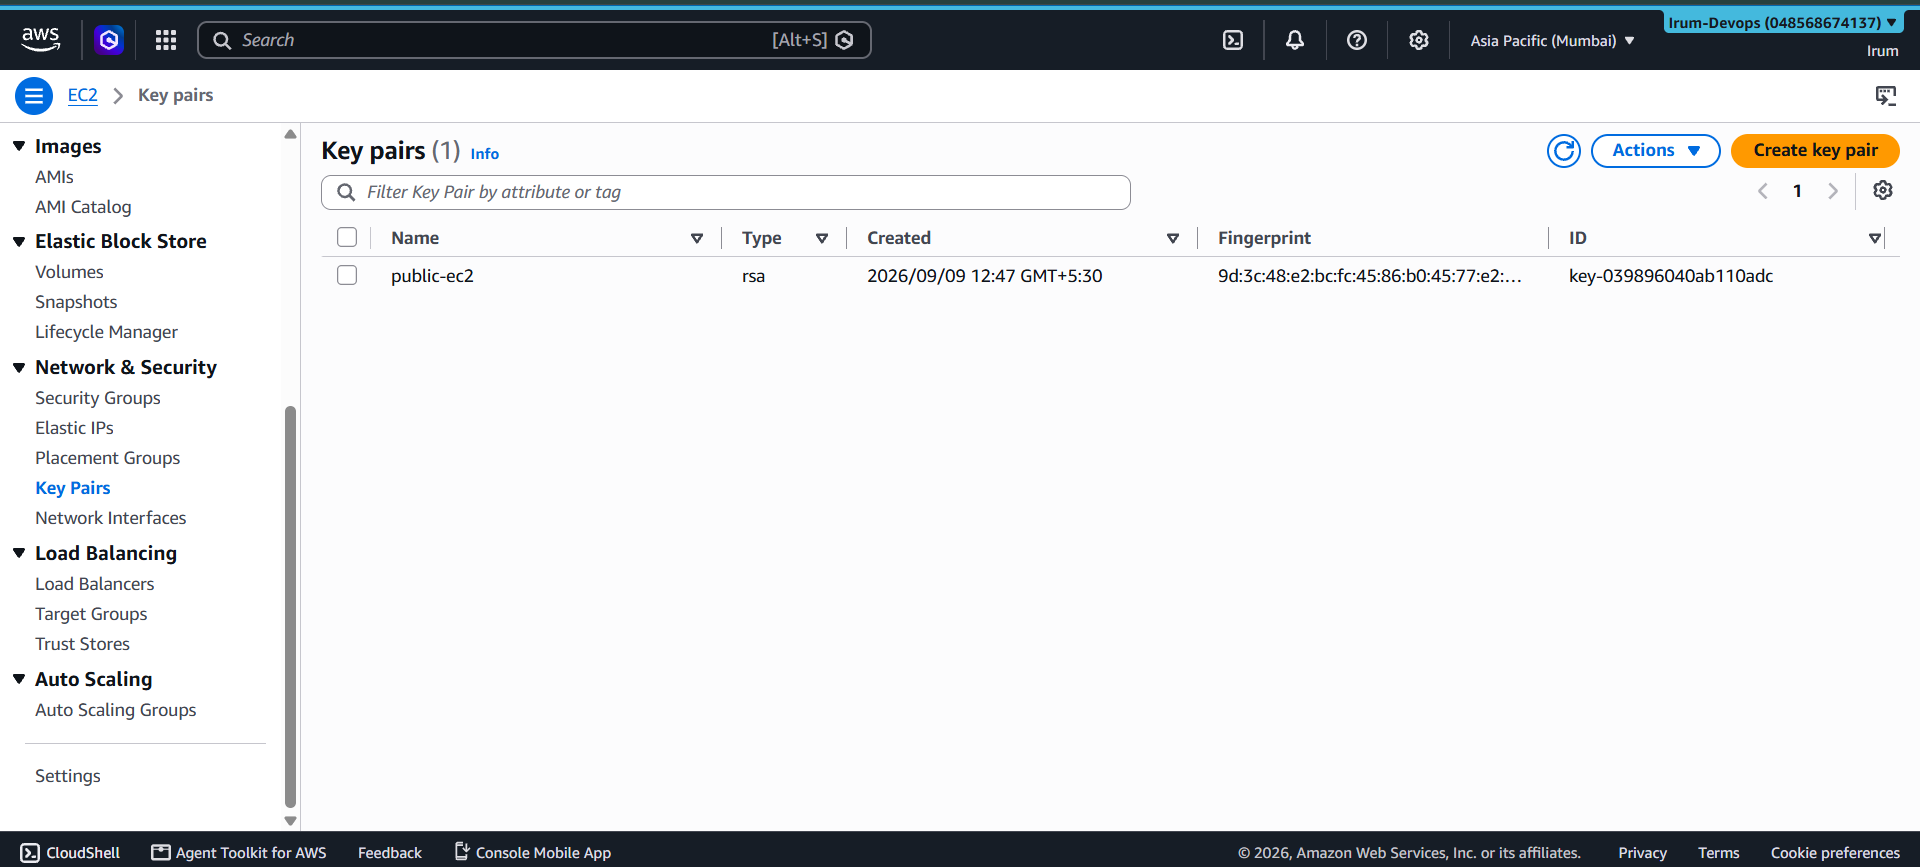
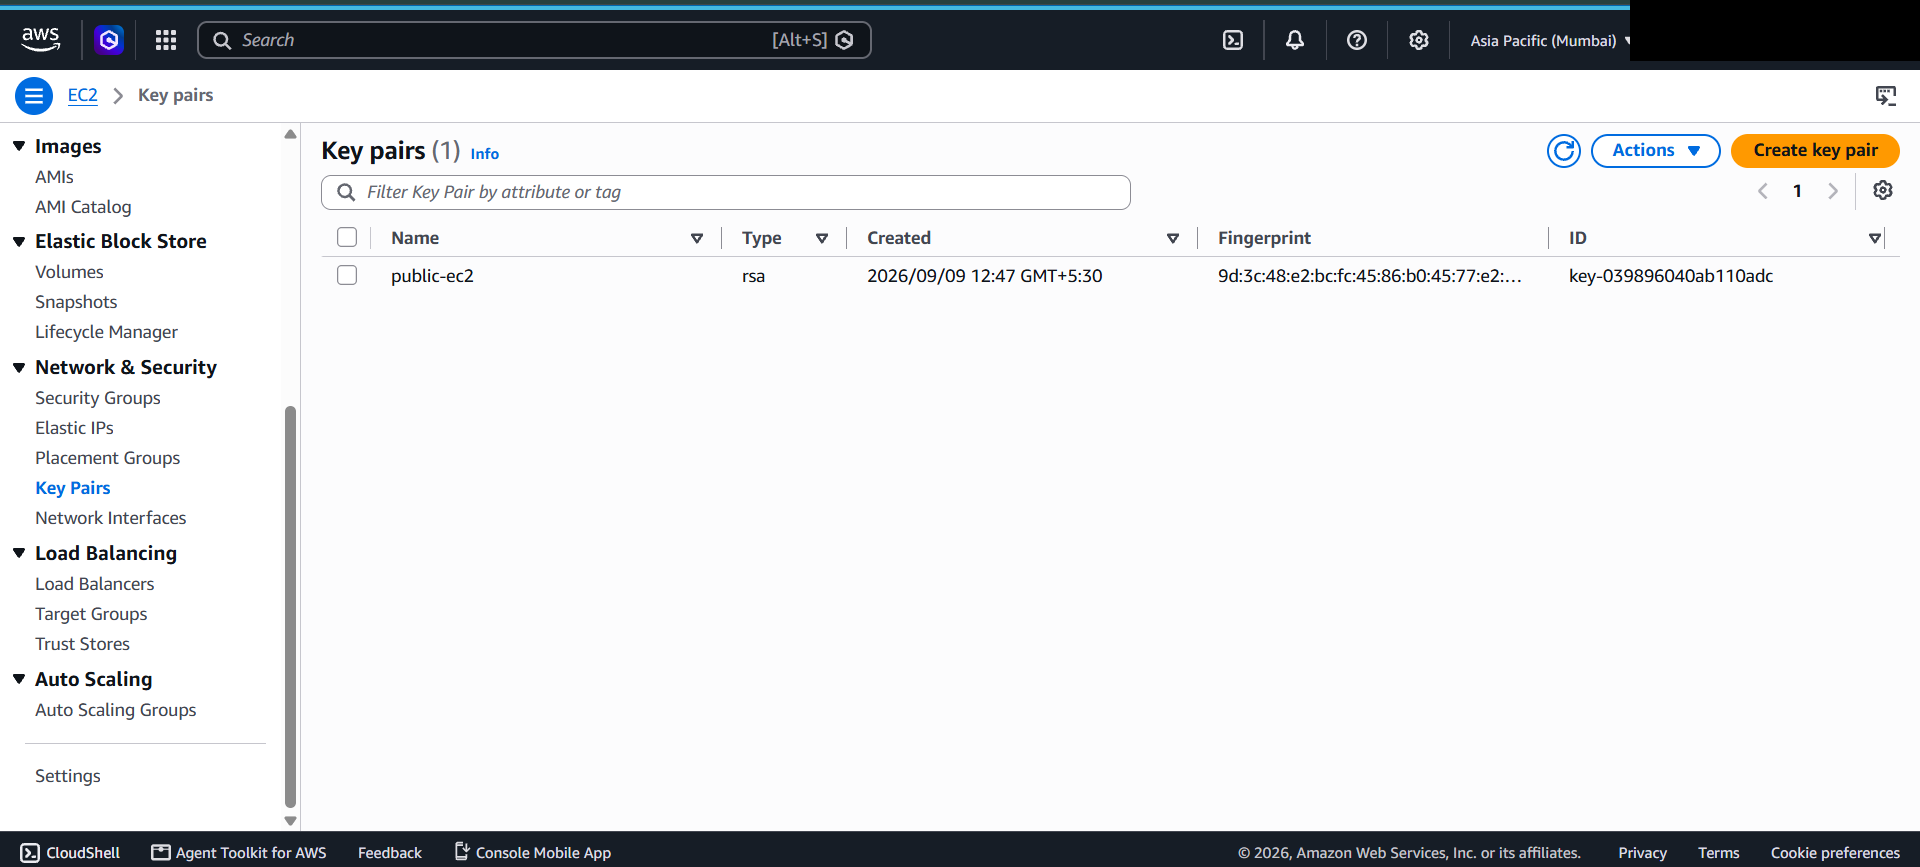
redacted info

Changed region(s): [[0.8438, 0.0, 1.0, 0.0934]]

diff --git a/aws/Assignment-1/README.md b/aws/Assignment-1/README.md
@@ -54,7 +54,7 @@ Both route tables also carry the implicit `10.0.0.0/16 → local` route AWS adds
 
 ## Security group design
 
-`sg-private`'s only inbound rule sources traffic from `sg-public` itself, rather than a specific IP or CIDR block. That means SSH access to the private instance is granted to whatever has `sg-public` attached, not to a specific address that would break if the public instance were ever replaced.
+sg-private's only inbound rule sources traffic from `sg-public` itself, rather than a specific IP or CIDR block. That means SSH access to the private instance is granted to whatever has `sg-public` attached, not to a specific address that would break if the public instance were ever replaced.
 
 ## Testing performed
 
